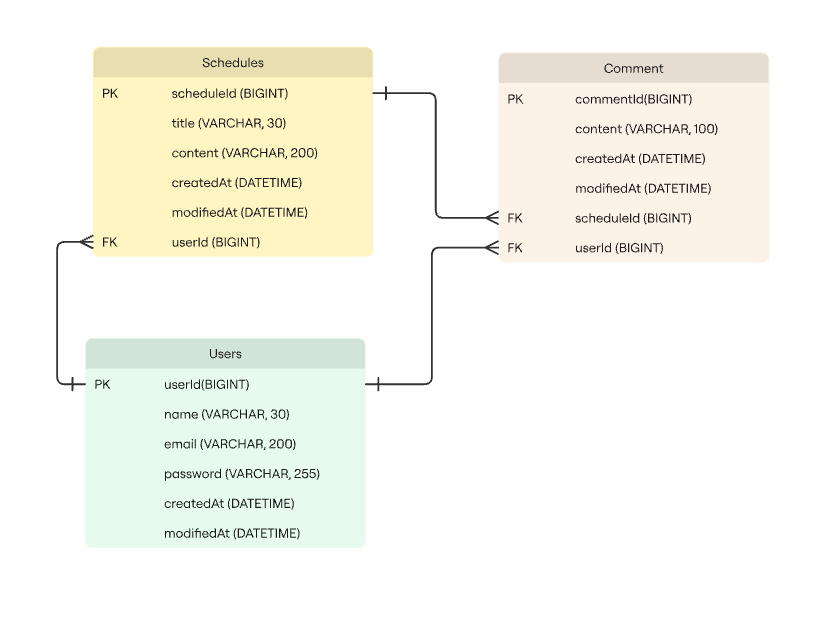
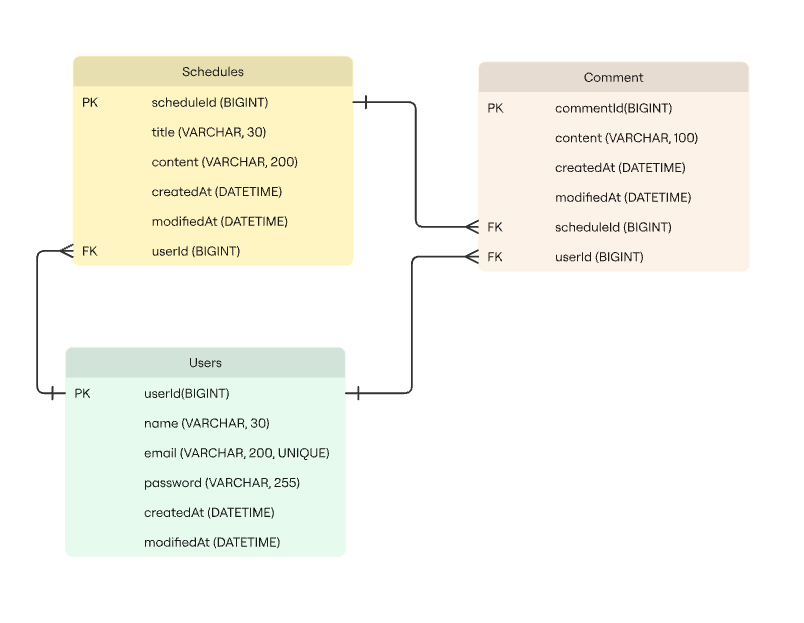
feat / delevlp Lv2. 유저 CRUD 구현

Changed region(s): [[0.0311, 0.0613, 0.653, 0.8887], [0.5908, 0.0613, 0.9639, 0.429]]

diff --git a/src/main/java/com/example/springscheduleapp/user/service/UserService.java b/src/main/java/com/example/springscheduleapp/user/service/UserService.java
@@ -1,15 +1,17 @@
 package com.example.springscheduleapp.user.service;
 
-import com.example.springscheduleapp.user.dto.CreateUserRequest;
-import com.example.springscheduleapp.user.dto.CreateUserResponse;
+import com.example.springscheduleapp.user.dto.*;
 import com.example.springscheduleapp.user.entity.User;
 import com.example.springscheduleapp.user.repository.UserRepository;
 import lombok.RequiredArgsConstructor;
 import org.springframework.stereotype.Service;
 import org.springframework.transaction.annotation.Transactional;
 
+import java.util.List;
+
 @Service
 @RequiredArgsConstructor
+@Transactional(readOnly = true)
 public class UserService {
 
     private final UserRepository userRepository;
@@ -23,10 +25,49 @@ public class UserService {
     }
 
     // 일정 생성용 유저 조회 (api 응답 x)
-    @Transactional(readOnly = true)
     public User findById(Long userId) {
         return userRepository.findById(userId).orElseThrow(
                 () -> new IllegalStateException("없는 유저입니다.")
         );
     }
+
+    // 유저 전체 조회
+    public List<GetUserResponse> getUsers() {
+        List<User> users = userRepository.findAll();
+        return users.stream()
+                .map(GetUserResponse::from)
+                .toList();
+    }
+
+    // 유저 단건 조회 (이메일로 조회)
+    public GetUserResponse getUserByEmail(String email) {
+        User user = userRepository.findByEmail(email).orElseThrow(
+                () -> new IllegalStateException("없는 유저입니다.")
+        );
+        return GetUserResponse.from(user);
+    }
+
+    // 유저 수정
+    @Transactional
+    public UpdateUserResponse updateUser(Long userId, UpdateUserRequest request) {
+        User user = getOrThrow(userId);
+        user.updateUser(request.name());
+        return UpdateUserResponse.from(user);
+    }
+
+    // 유저 삭제
+    @Transactional
+    public void deleteUser(Long userId) {
+        User user = getOrThrow(userId);
+        userRepository.delete(user);
+    }
+
+    // 공통메서드 분리
+    private User getOrThrow(Long userId) {
+        return userRepository.findById(userId).orElseThrow(
+                () -> new IllegalStateException("없는 유저입니다.")
+        );
+    }
+
+
 }

diff --git a/src/main/java/com/example/springscheduleapp/user/controller/UserController.java b/src/main/java/com/example/springscheduleapp/user/controller/UserController.java
@@ -1,0 +1,50 @@
+package com.example.springscheduleapp.user.controller;
+
+import com.example.springscheduleapp.user.dto.*;
+import com.example.springscheduleapp.user.service.UserService;
+import lombok.RequiredArgsConstructor;
+import org.springframework.http.HttpStatus;
+import org.springframework.http.ResponseEntity;
+import org.springframework.web.bind.annotation.*;
+
+import java.util.List;
+
+@RestController
+@RequiredArgsConstructor
+@RequestMapping("/api/users")
+public class UserController {
+
+    private final UserService userService;
+
+    // 유저 생성
+    @PostMapping
+    public ResponseEntity<CreateUserResponse> create(@RequestBody CreateUserRequest request) {
+        return ResponseEntity.status(HttpStatus.CREATED).body(userService.create(request));
+    }
+
+    // 유저 전체 조회
+    @GetMapping
+    public ResponseEntity<List<GetUserResponse>> getUsers() {
+        return ResponseEntity.ok(userService.getUsers());
+    }
+
+    // 유저 단건 조회 (이메일로 조회)
+    @GetMapping(params = "email")
+    public ResponseEntity<GetUserResponse> getUser(@RequestParam String email) {
+        return ResponseEntity.ok(userService.getUserByEmail(email));
+    }
+
+    // 유저 수정
+    @PatchMapping("/{userId}")
+    public ResponseEntity<UpdateUserResponse> update(
+            @PathVariable Long userId, @RequestBody UpdateUserRequest request) {
+        return ResponseEntity.ok(userService.updateUser(userId, request));
+    }
+
+    // 유저 삭제
+    @DeleteMapping("/{userId}")
+    public ResponseEntity<Void> delete(@PathVariable Long userId) {
+        userService.deleteUser(userId);
+        return ResponseEntity.status(HttpStatus.NO_CONTENT).build();
+    }
+}

diff --git a/src/main/java/com/example/springscheduleapp/user/dto/UpdateUserResponse.java b/src/main/java/com/example/springscheduleapp/user/dto/UpdateUserResponse.java
@@ -1,21 +1,20 @@
 package com.example.springscheduleapp.user.dto;
 
 import com.example.springscheduleapp.user.entity.User;
+import org.springframework.cglib.core.Local;
 
 import java.time.LocalDateTime;
 
-public record GetUserResponse(
+public record UpdateUserResponse(
         Long id,
         String name,
-        String email,
         LocalDateTime createdAt,
         LocalDateTime modifiedAt
 ) {
-    public static GetUserResponse from(User user) {
-        return new GetUserResponse(
+    public static UpdateUserResponse from(User user) {
+        return new UpdateUserResponse(
                 user.getId(),
                 user.getName(),
-                user.getEmail(),
                 user.getCreatedAt(),
                 user.getModifiedAt()
         );

diff --git a/src/main/java/com/example/springscheduleapp/user/entity/User.java b/src/main/java/com/example/springscheduleapp/user/entity/User.java
@@ -19,7 +19,7 @@ public class User extends BaseEntity {
     @Column(name = "name", nullable = false, length = 30)
     private String name;
 
-    @Column(name = "email", nullable = false, length = 200)
+    @Column(name = "email", nullable = false, length = 200, unique = true)
     private String email;
 
     @Column(name = "password", nullable = false, length = 255)

diff --git a/src/main/java/com/example/springscheduleapp/user/repository/UserRepository.java b/src/main/java/com/example/springscheduleapp/user/repository/UserRepository.java
@@ -3,5 +3,9 @@ package com.example.springscheduleapp.user.repository;
 import com.example.springscheduleapp.user.entity.User;
 import org.springframework.data.jpa.repository.JpaRepository;
 
+import java.util.Optional;
+
 public interface UserRepository extends JpaRepository<User, Long> {
+
+    Optional<User> findByEmail(String email);
 }

diff --git a/src/main/java/com/example/springscheduleapp/user/dto/UpdateUserRequest.java b/src/main/java/com/example/springscheduleapp/user/dto/UpdateUserRequest.java
@@ -1,0 +1,6 @@
+package com.example.springscheduleapp.user.dto;
+
+public record UpdateUserRequest(
+        String name
+) {
+}

diff --git a/src/main/java/com/example/springscheduleapp/user/dto/GetUserRequest.java b/src/main/java/com/example/springscheduleapp/user/dto/GetUserRequest.java
@@ -1,0 +1,6 @@
+package com.example.springscheduleapp.user.dto;
+
+public record GetUserRequest(
+        String name
+) {
+}

diff --git a/docs/API.md b/docs/API.md
@@ -179,9 +179,9 @@
 
 ---
 
-### 2-3. 유저 단건 조회
+### 2-3. 유저 단건 조회 (이메일로 조회)
 
-**GET** `/api/users/{id}`
+**GET** `/api/users?email={email}`
 
 #### Response
 
@@ -201,7 +201,7 @@
 
 ### 2-4. 유저 수정
 
-**PUT** `/api/users/{id}`
+**PATCH** `/api/users/{id}`
 
 #### Request
 
@@ -217,6 +217,7 @@
 
 ```json
 {
+  "id": 1,
   "name": "",
   "createdAt": "",
   "modifiedAt": ""
